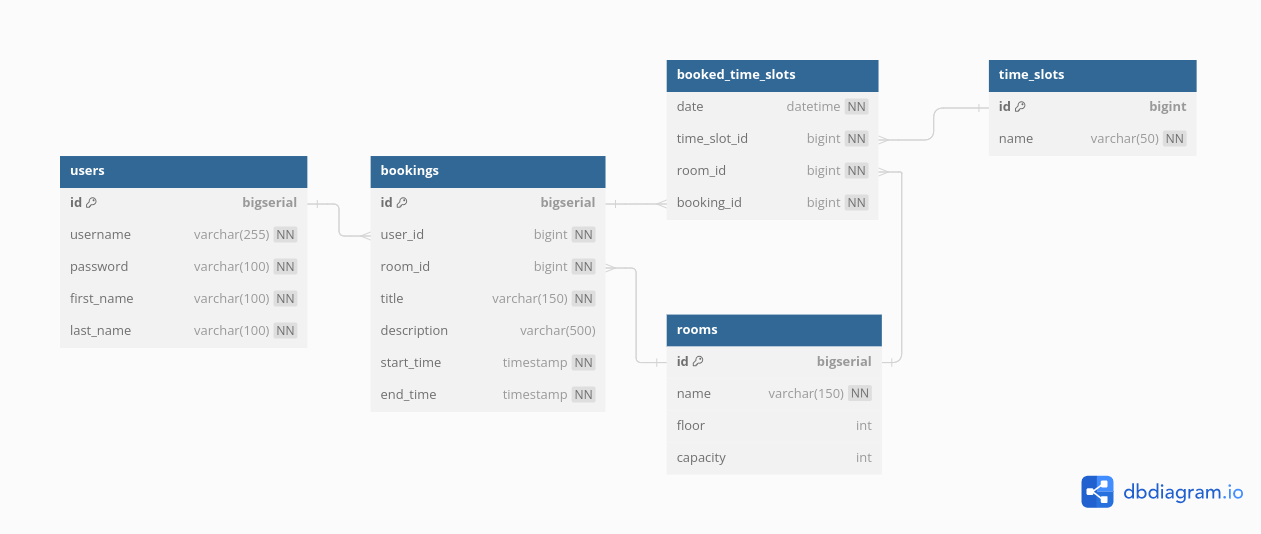
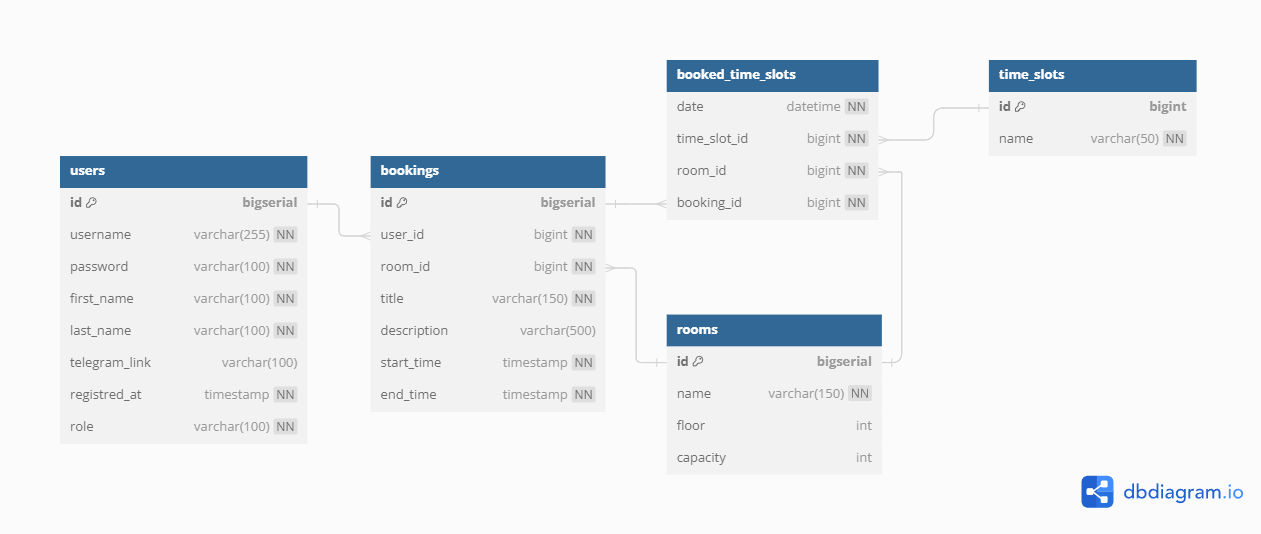
review changes

diff --git a/src/main/java/com/booking_service/model/entity/Booking.java b/src/main/java/com/booking_service/model/entity/Booking.java
@@ -1,7 +1,10 @@
 package com.booking_service.model.entity;
 
 import jakarta.persistence.*;
-import lombok.*;
+import lombok.EqualsAndHashCode;
+import lombok.Getter;
+import lombok.Setter;
+import lombok.ToString;
 
 import java.time.LocalDateTime;
 import java.util.Set;
@@ -17,31 +20,21 @@ public class Booking {
     @Id
     @GeneratedValue(strategy = GenerationType.IDENTITY)
     private Long id;
-
     @Column(nullable = false, length = 150)
     private String title;
-
     @Column(length = 500)
     private String description;
-
     @Column(nullable = false)
     private LocalDateTime startTime;
-
     @Column(nullable = false)
     private LocalDateTime endTime;
-
     @ManyToOne(cascade = CascadeType.ALL)
     private User user;
-
     @ManyToOne(cascade = CascadeType.ALL)
     private Room room;
-
     @ManyToMany
-    @JoinTable(
-            name = "booked_time_slots",
+    @JoinTable(name = "booked_time_slots",
             joinColumns = @JoinColumn(name = "booking_id"),
-            inverseJoinColumns = @JoinColumn(name = "time_slot_id")
-    )
+            inverseJoinColumns = @JoinColumn(name = "time_slot_id"))
     private Set<TimeSlot> timeSlots;
-
 }

diff --git a/src/main/java/com/booking_service/model/entity/User.java b/src/main/java/com/booking_service/model/entity/User.java
@@ -1,7 +1,10 @@
 package com.booking_service.model.entity;
 
+import com.booking_service.model.Role;
 import jakarta.persistence.*;
 import lombok.Data;
+
+import java.time.LocalDateTime;
 
 @Data
 @Entity
@@ -11,17 +14,26 @@ public class User {
     @Id
     @GeneratedValue(strategy = GenerationType.IDENTITY)
     private Long id;
-
     @Column(nullable = false, unique = true)
     private String username;
-
     @Column(nullable = false, length = 100)
     private String password;
-
     @Column(nullable = false, length = 100)
     private String firstName;
-
     @Column(nullable = false, length = 100)
     private String lastName;
+    @Column(name = "telegram_link", length = 100)
+    private String telegramLink;
+    @Column(name = "registered_at")
+    private LocalDateTime registeredAt;
+    @Enumerated(EnumType.STRING)
+    @Column(nullable = false, length = 100)
+    private Role role = Role.USER;
 
+    @PrePersist
+    public void prePersist() {
+        if (this.registeredAt == null) {
+            this.registeredAt = LocalDateTime.now();
+        }
+    }
 }

diff --git a/src/main/java/com/booking_service/model/entity/Room.java b/src/main/java/com/booking_service/model/entity/Room.java
@@ -11,12 +11,8 @@ public class Room {
     @Id
     @GeneratedValue(strategy = GenerationType.IDENTITY)
     private Long id;
-
     @Column(nullable = false, unique = true, length = 150)
     private String name;
-
     private Integer floor;
-
     private Integer capacity;
-
 }

diff --git a/src/main/java/com/booking_service/model/entity/TimeSlot.java b/src/main/java/com/booking_service/model/entity/TimeSlot.java
@@ -11,8 +11,6 @@ public class TimeSlot {
     @Id
     @GeneratedValue(strategy = GenerationType.IDENTITY)
     private Long id;
-
     @Column(nullable = false, unique = true, length = 50)
     private String name;
-
 }

diff --git a/src/main/java/com/booking_service/model/Role.java b/src/main/java/com/booking_service/model/Role.java
@@ -1,0 +1,5 @@
+package com.booking_service.model;
+
+public enum Role {
+    ADMIN, USER
+}
